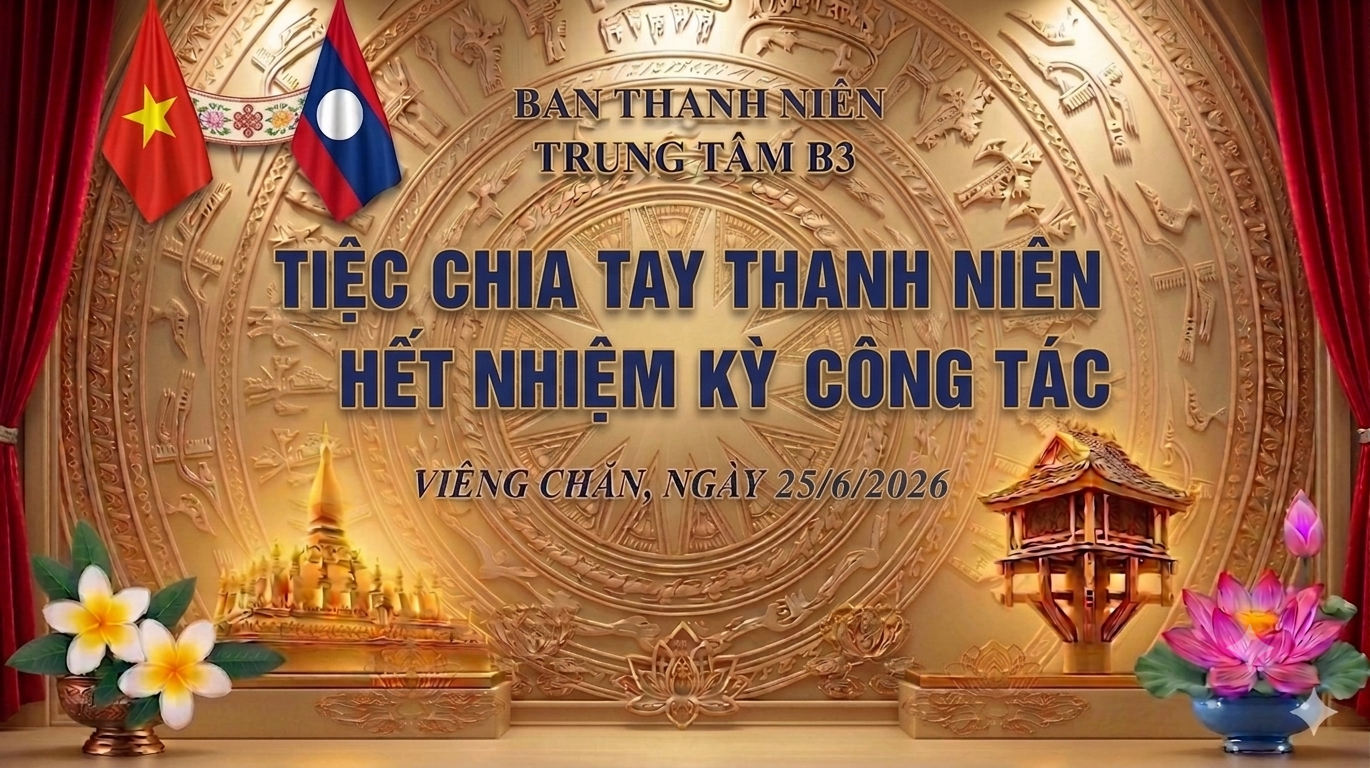
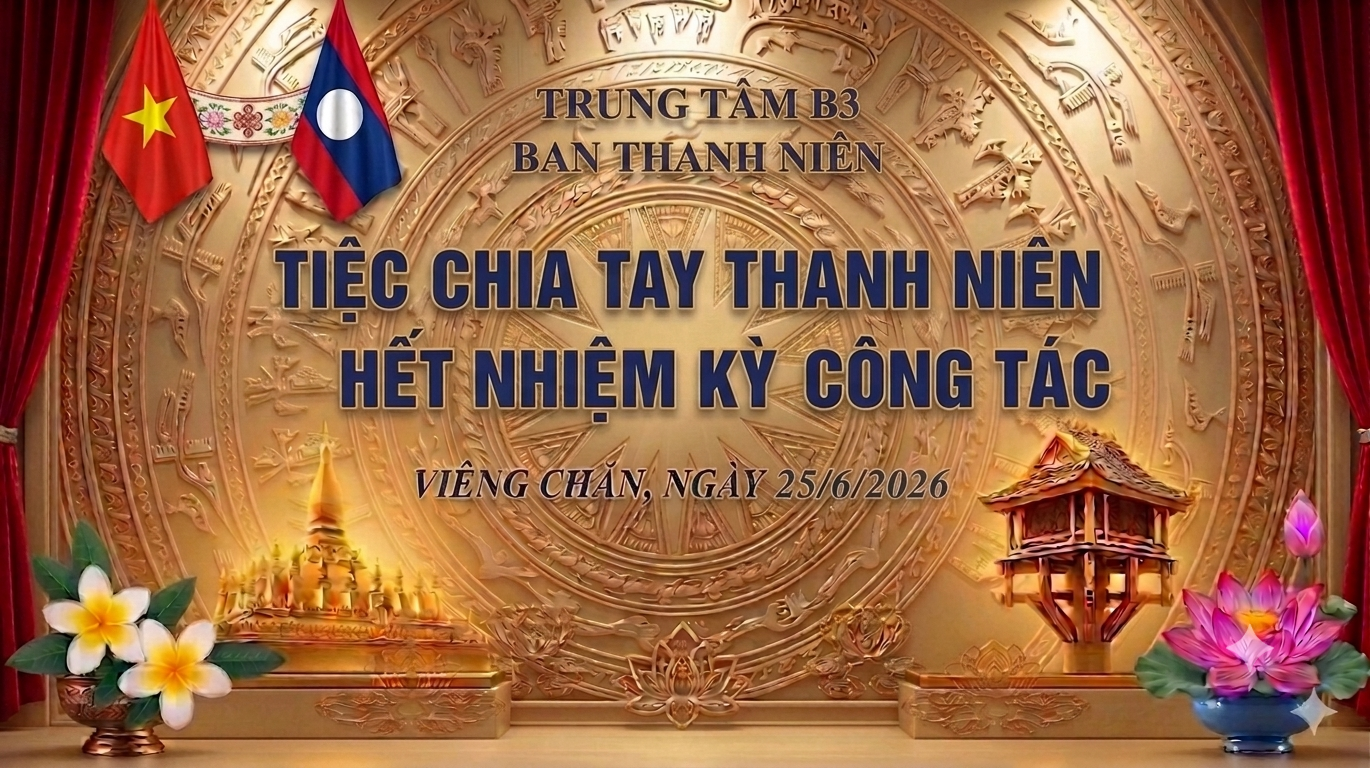
Deploy thiệp mời version mới nhất

Changed region(s): [[0.3679, 0.0938, 0.6438, 0.25], [0.8891, 0.8125, 0.9197, 0.875]]

diff --git a/flutter_bootstrap.js b/flutter_bootstrap.js
@@ -37,6 +37,6 @@ _flutter.buildConfig = {"engineRevision":"425cfb54d01a9472b3e81d9e76fd63a4a44cfb
 
 _flutter.loader.load({
   serviceWorkerSettings: {
-    serviceWorkerVersion: "143495943" /* Flutter's service worker is deprecated and will be removed in a future Flutter release. */
+    serviceWorkerVersion: "3608440079" /* Flutter's service worker is deprecated and will be removed in a future Flutter release. */
   }
 });
